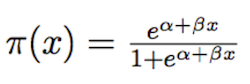
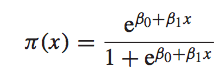
adding regzn notes, logistic exs

Changed region(s): [[0.47, 0.5122, 0.9954, 0.8293], [0.0, 0.2927, 0.47, 0.7561], [0.553, 0.1463, 0.8848, 0.4878]]

diff --git a/lec07/logistic.py b/lec07/logistic.py
@@ -1,0 +1,100 @@
+#!/usr/bin/env python
+# author: Jason Dolatshahi
+
+import numpy as np
+import pandas as pd
+
+from sklearn.linear_model import LogisticRegression as LR
+from sklearn.metrics import confusion_matrix
+
+INPUT_FILE = '../datasets/beer.txt'
+TRAIN_PCT = 0.7
+
+def add_dummys(data):
+    """Create dummy variables for some generalizations of 'Type' column
+    (note: this is a simplistic example of clustering in 1d)"""
+
+    data['type_Stout'] = data['Type'].map(lambda k: 1 if 'Stout' in k else 0)
+    data['type_IPA'] = data['Type'].map(lambda k: 1 if 'IPA' in k else 0)
+    data['type_Ale'] = data['Type'].map(lambda k: 1 if 'Ale' in k else 0)
+
+    # note "type_Other" is implicitly encoded as a 0 for each of these new
+    # features (in general you need k-1 dummy vars to encode k categorical vars)
+
+    return data
+
+def preprocess_data(input_file=INPUT_FILE, simple=1):
+    """Load data from txt file, perform preprocessing and return df."""
+
+    # load dataset, drop na's
+    beer = pd.read_csv(input_file, delimiter='\t').dropna()
+    
+    # add column for class labels (1 for top half, 0 for bottom half)
+    midpt = int(len(beer) / 2)
+    beer['label'] = beer['Rank'].map(lambda k: 1 if k <= midpt else 0)
+
+    # notice that there's a lot going on in the above line!
+    # (buzzwords: map, anonymous function, ternary operator...look these up!)
+
+    # for the sake of simplicity, our first model fit will use only the
+    # numerical features
+    if simple:
+        return beer[['ABV', 'Reviews', 'label']]
+
+    # add another feature for 'group'
+    else:
+        beer = add_dummys(beer)
+        return beer[['ABV', 'Reviews', 'label',
+            'type_Stout', 'type_IPA', 'type_Ale']]
+
+    # note: pandas is based on numpy, which relies heavily on such "functional"
+    # ("vectorized") techniques as the map function used here (like matlab, R)
+
+def run_model(data):
+    """Perform train/test split, fit model and output results."""
+
+    # shuffle dataset
+    data = data.reindex(np.random.permutation(data.index))
+
+    # perform train/test split (more about this next lecture!)
+    # btw, scikit will do this for you...but it's good to see it done by hand
+    split_pt = int(TRAIN_PCT * len(data))
+
+    train_x = data[:split_pt].drop('label', 1)      # training set features
+    train_y = data[:split_pt].label                 # training set target
+
+    test_x = data[split_pt:].drop('label', 1)       # test set features
+    test_y = data[split_pt:].label                  # test set target
+
+    # initialize model & perform fit
+    model = LR()                        # model is an "instance" of the class LR
+    model.fit(train_x, train_y)         # perform model fit ("in place")
+
+    # get model outputs
+    inputs = map(str, train_x.columns.format())
+    coeffs = model.coef_[0]
+    accuracy = model.score(test_x, test_y)
+
+    predicted_y = model.predict(test_x)
+    cm = confusion_matrix(test_y, predicted_y)
+
+    print 'inputs = {0}'.format(inputs)
+    print 'coeffs = {0}'.format(coeffs)
+    print 'accuracy = {0}'.format(accuracy)     # mean 0/1 loss
+    print 'confusion matrix:\n', cm, '\n'
+
+if __name__ == '__main__':
+    beer = preprocess_data(simple=0)
+    # beer = preprocess_data()
+    run_model(beer)
+
+
+# CHALLENGE QUESTIONS!
+# 1) what do the accuracy results suggest?
+# 2) how do your results change if you try to predict the top 10%
+#    instead of the top half? what does this suggest?
+# 3) if you run this several times, your results may vary widely. how could you
+#    stabilize this behavior?
+# 4) why should you worry about a train/test split?
+# 5) the model object has attributes called "model.penalty" and "model.c". What
+#    are these values used for?

diff --git a/lec07/logistic.md b/lec07/logistic.md
@@ -31,11 +31,16 @@ minimizing the sum of squared residuals, model parameters are estimated by
 maximizing a function proportional to the probability of obtaining the
 observed set of data.
 
+The analogy between the classical development of linear regression and the
+machine learning interpretation can be seen by regarding the sum of squared
+residuals as the **loss function** which we optimize in order to learn the
+parameters of the model.
+
 ## 1. logistic regression
 
-Logistic regression is a close relative of linear regression, but with two main
-differences. These differences permit logistic regression to be used for
-**classification**, even though it's a regression model.
+Logistic regression is a close relative of linear regression, but with two
+important differences. These differences permit logistic regression to be used
+for **classification**, even though it's a regression model.
 
 ### dependent variable
 
@@ -52,38 +57,72 @@ Notice that it maps each real value into the unit interval [0, 1]:
 <p align="center">
 <img src="../images/logistic_curve.png">
 
-### probability estimates
-These dependent values are all between 0 and 1, so we can interpret them as
-**probabilities of class membership**. This is illustrated by the following
-example.
-
-Suppose we have a number of records that give the age of an
-individual accompanied by a binary variable that indicates whether the
-individual has heart disease:
-
-<p align="center">
-<img src="../images/logistic_table1.png">
-
-Like before, we can visualize the relationship between these variables using
-a scatterplot. But becasue the independent variable (age) is real-valued while the
-dependent variable (CHD) can take only the values 0 or 1, the relationship is
-difficult to see:
-
-<p align="center">
-<img src="../images/logistic_scatter1.png">
-
-We can visualize it more easily by applying a simple transformation to the feature
-space. Namely we can bucket the ages into groups (20s, 30s, etc) and plot the
-average of *Y* inside each group to look for a trend:
-
-<p align="center">
-<img src="../images/logistic_scatter2.png">
-
 ### error term
 
 The second difference has to do with the distribution of the error term;
 instead of a Gaussian distribution we assume a [**Bernoulli
 distribution**](https://en.wikipedia.org/wiki/Bernoulli_distribution) for *ε*.
 This distribution models a random variable that can take only the values 0 or
-1. (Both of these differences are really two sides of the same coin; they're
-consequences of each other.)
+1. You can think of a Bernoulli random variable as the outcome of a coin toss
+where the parameter *p* gives the probability of coming up heads.
+
+(Note that both of these differences are really two sides of the same coin;
+they're consequences of each other.)
+
+## 2. probability estimates
+
+The key to using the logistic regression model for classification is by
+applying a probability interpretation to the dependent variable *Y*. These
+values are always between 0 and 1, so we can interpret them as **probabilities of
+class membership**. This is illustrated by the following example.
+
+Suppose we have a number of records that give the age of an
+individual accompanied by a binary variable that indicates whether the
+individual has heart disease:
+<p align="center">
+<img src="../images/logistic_table1.png">
+
+Like before, we can visualize the relationship between these variables using
+a scatterplot. But because the independent variable (age) is real-valued while the
+dependent variable (CHD) can take only the values 0 or 1, the relationship is
+difficult to see:
+<p align="center">
+<img src="../images/logistic_scatter1.png">
+
+We can visualize it more easily by applying a simple transformation to the feature
+space. Namely we can bucket the ages into groups (20s, 30s, etc) and look at
+the average value of *Y* inside each group:
+<p align="center">
+<img src="../images/logistic_table2.png">
+
+This makes the trend easier to see:
+<p align="center">
+<img src="../images/logistic_scatter2.png">
+
+Logistic regression can be seen as an extension of this simple and practical
+point of view where the bucket size shrinks to 1, and where we make class
+predictions by applying a cutoff to the model's probability estimates at 50%.
+
+## epilogue: glm
+
+The logistic function is the mathematical object that allows us to use a
+regression model for classification, and as a result it is key to our efforts.
+Here it is again:
+<p align="center">
+<img src="../images/logistic_func.png">
+
+Another important mathematical object is the function that maps the
+logistic model back to the linear model. This function is called the **logit
+function**:
+<p align="center">
+<img src="../images/logit.png">
+
+This function links the linear model with the logistic model, and it hints at a
+theoretical structure that formalizes the relationship between these two
+models. We won't say much about this other than to say that it goes by the
+name of **generalized linear models**, and in this context the logit function
+is the **link function** of the logistic model.
+
+This is why doing logistic regression in R looks like a call to the `glm`
+function with the error family set to Bernoulli, and why the linear & logistic
+regression models in sklearn both live in the `linear_model` submodule.

diff --git a/lec07/regzn.md b/lec07/regzn.md
@@ -1,0 +1,76 @@
+<!-- author: Jason Dolatshahi -->
+
+# regularization
+
+We've already discussed the pitfalls of overfitting, and the use of a
+train/test split to mitigate most of its effects. But some overfitting can
+still occur even if we train our model the right way, and there is more we can
+do to prevent it.
+
+Note that sklearn returns regularized fits for many models by
+default, so if you've ever used it for regression or classification you may
+have seen or used this technique already.
+
+## complexity
+
+Overfitting occurs when we begin to fit the noise in our dataset instead of just
+the signal, which is the part we want to fit because it will generalize well to
+give us good out-of-sample predictions. Another way to say this is that
+overfitting occurs when we have too much **complexity** in our model.
+
+We can control for overfitting by applying regularization, which **explicitly
+penalizes** the model for adding complexity. The way it does this depends on our
+definition of complexity.
+
+Suppose for simplicity we're using a linear regression model (though the
+discussion holds for other models as well). In this case we have *Y = β0 + β1
+x1 + ... + βn xn + ε*, where in a minor change of notation *β0* plays the role
+that *α* played before.
+
+## norms
+
+One way to define complexity is as the overall size of the model coefficients. Then
+controlling complexity amounts to minimizing some global measure of their
+magnitudes (note that we can't just minimize their sum, because they may have
+different signs).
+
+One useful measure of overall magnitude is given by the sum of the absolute
+values of the coefficients, *Σ |β|*. Another useful measure is given by the sum of
+the squares of the coefficients, *Σ β^2*. These measures are called the **L1-norm**
+and the **L2-norm**, respectively.
+
+With these definitions we can add a new complexity constraint to our linear regression
+model:
+
+    1) y = Σ βX such that Σ |β| < λ 
+    2) y = Σ βX such that Σ β^2 < λ 
+
+The first version of the constrained model is called **L1 regularization** and
+the second version is called **L2 regularization** (these are sometimes
+confusingly called **lasso regression** and **ridge regression**,
+respectively). Another technique called **elasticnet regression** uses a
+combination of both the L1 and L2 norms.
+
+## Lagrangian formulation
+
+The equations above can be re-expressed in using another (Lagrangian)
+formulation as follows:
+
+    1) y = min (|| y - Σ βX ||^2 + λ ||x||)
+    2) y = min (|| y - Σ βX ||^2 + λ ||x||^2)
+
+The Lagrangian formulation incorporates the constraint into the optimization
+problem itself; this explicitly associates complexity with a **cost** to the
+optimization program that learns the model.
+
+## bias-variance tradeoff
+Regularization is a technique for reducing overfitting, which is a symptom of a
+model with too much complexity. A too-complex model produces an erratic
+**decision boundary** which does not generalize well, and therefore yields
+**high-variance** predictions.
+
+You probably noticed that regularization affects the predictions we make, and
+therefore pulls our model slightly off target while reducing overfitting. We
+only regularize the model up to the point that the drift (bias) we incur is
+mode than made up for by the reduction in overfitting (variance). This is a
+tangible example of the **bias-variance tradeoff**.

diff --git a/lec07/ex.md b/lec07/ex.md
@@ -1,0 +1,36 @@
+<!-- author: Jason Dolatshahi -->
+
+# lec 7 exercises
+## logistic regression
+
+Complete these exercises in groups of 2 or 3. Try to make your responses as
+simple as possible.
+
+### no computers
+
+1) What are the main differences between logistic regression and linear
+regression?
+
+2) How can you use a regression model for classification?
+
+3) What is the purpose of regularization? How does it work?
+
+### yes computers
+4) Look at the image of a logistic regression model being used for
+classification in the README for this lecture. How could you draw in the
+decision boundary for this model?
+
+5) Have a look at the sklearn
+[documentation](http://scikit-learn.org/stable/modules/linear_model.html)
+for linear models. Which parts look familiar? Which parts are confusing?
+
+6) Have a look at the sklearn
+[api
+reference](http://scikit-learn.org/stable/modules/generated/sklearn.linear_model.LogisticRegression.html#sklearn.linear_model.LogisticRegression)
+for logistic regression. What do each of the input parameters do? Why are their
+defaults selected as they are?
+
+7) Use sklearn and the data in `beer.txt` to build a logistic regression model that
+predicts the type of beer. How does your model perform? Try to improve it by
+coarsening your target variable: instead of trying to predict type, try to
+predict whether the beer is a stout or not.
